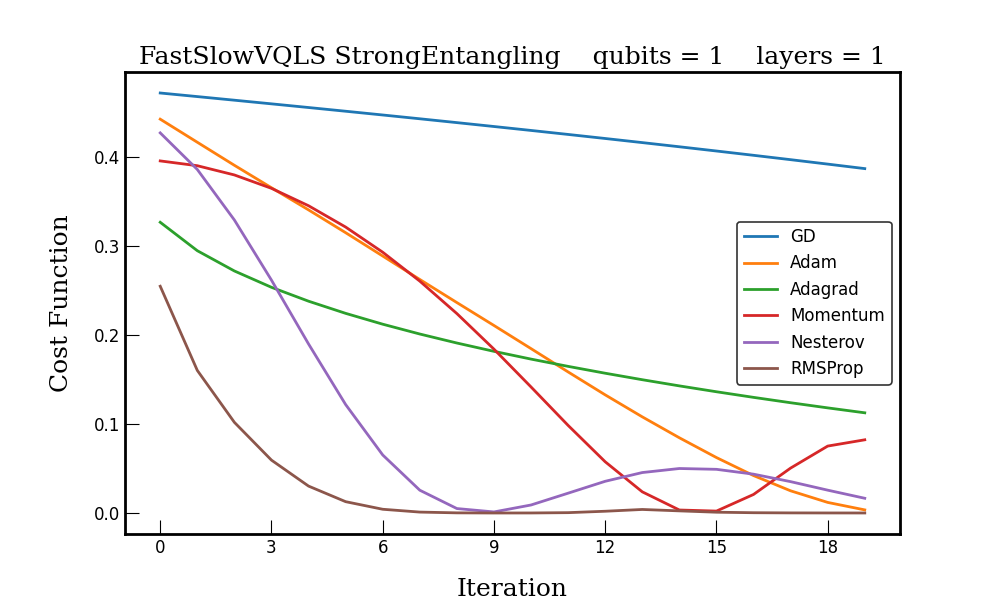
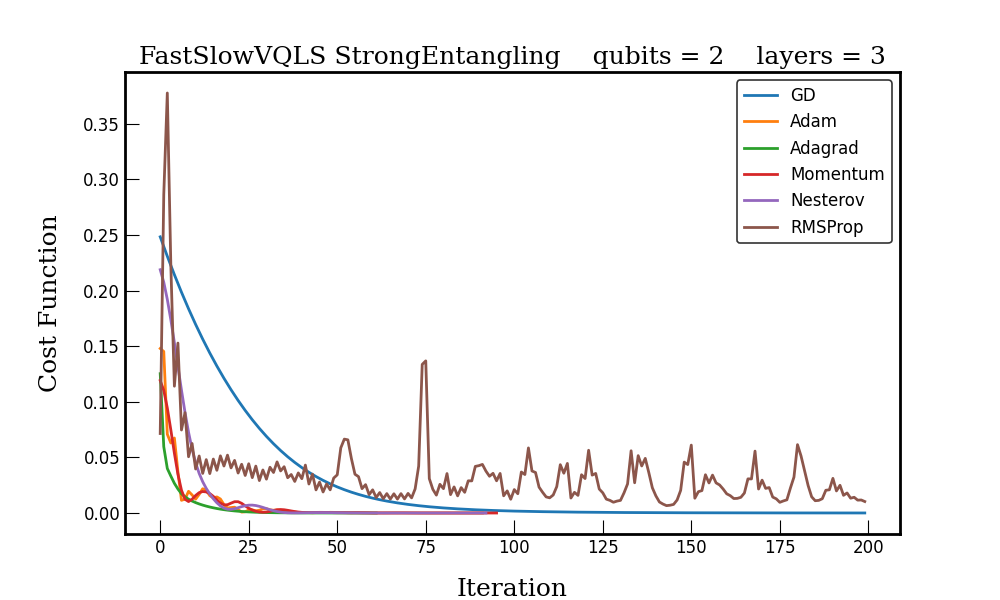
modified example vqls files

diff --git a/examples/example_vqls_fast_and_slow.py b/examples/example_vqls_fast_and_slow.py
@@ -10,10 +10,10 @@ from src.utils.plotting import plot_costs
 np.random.seed(42)
 
 # number of qubits & layers
-nqubits = 1
-nlayers = 1
+nqubits = 2
+nlayers = 3
 
-maxiter = 20
+maxiter = 200
 
 # random symmetric positive definite matrix
 A0, b0 = get_random_ls(nqubits, easy_example=True)
@@ -44,7 +44,7 @@ for optim in optims:
                                  stateprep=prep_,
                                  backend=backend_,
                                  epochs=maxiter,
-                                 epochs_bo=None,
+                                 epochs_bo=20,
                                  tol=1e-6)
 
     cost_hists[optim.name] = cost_hist

diff --git a/examples/example_vqls.py b/examples/example_vqls.py
@@ -10,10 +10,10 @@ from src.utils.plotting import plot_costs
 np.random.seed(42)
 
 # number of qubits & layers
-nqubits = 1
-nlayers = 1
+nqubits = 2
+nlayers = 3
 
-maxiter = 20
+maxiter = 200
 
 # random symmetric positive definite matrix
 A0, b0 = get_random_ls(nqubits, easy_example=True)
